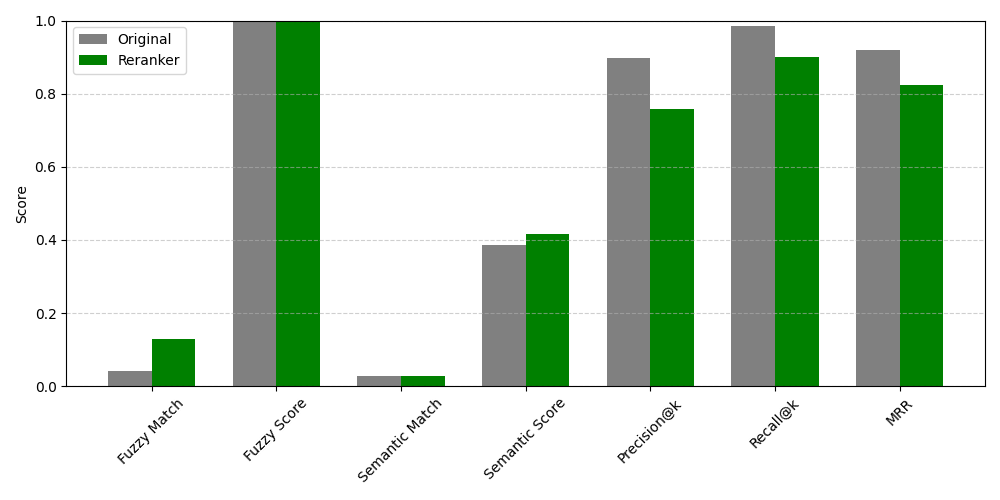
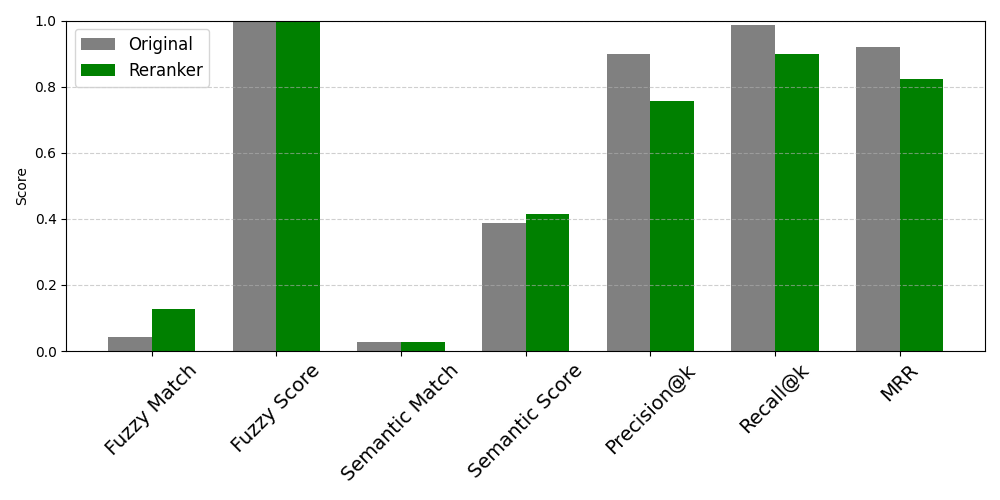
Update plots fonts size

diff --git a/evaluations/plot_model_comparison.py b/evaluations/plot_model_comparison.py
@@ -3,7 +3,7 @@ import matplotlib.pyplot as plt
 import os
 
 # Path to evaluation files
-eval_dir = "evaluations//direct-questions-evaluation"
+eval_dir = "evaluations//indirect-questions-evaluation"
 eval_files = [f for f in os.listdir(eval_dir) if f.startswith("Evaluation_") and f.endswith(".xlsx")]
 
 # Define metrics as (base_col, rerank_col)
@@ -25,7 +25,7 @@ rerank_metrics = {label: [] for label in metric_labels}
 
 # Read and process each file
 for file in eval_files:
-    model_name = file.replace("Evaluation_", "").replace(".xlsx", "").replace("_direct_questions", "")
+    model_name = file.replace("Evaluation_", "").replace(".xlsx", "").replace("_indirect_questions", "")
     model_names.append(model_name)
 
     file_path = os.path.join(eval_dir, file)
@@ -56,12 +56,12 @@ def plot_model_comparison(metric_dict, title, filename):
             color=color_palette[idx % len(color_palette)]
         )
 
-    plt.xticks([i + bar_width * 3 for i in x], model_names)
+    plt.xticks([i + bar_width * 3 for i in x], model_names, fontsize=16)
     plt.xlabel("Embedding Models")
     plt.ylabel("Score")
     #plt.title(title)
     plt.ylim(0, 1)
-    plt.legend()
+    plt.legend(fontsize=11)
     plt.tight_layout()
     plt.grid(axis='y', linestyle='--', alpha=0.5)
 
@@ -71,5 +71,5 @@ def plot_model_comparison(metric_dict, title, filename):
     print(f"✅ Saved plot: {output_path}")
 
 # Generate both comparison plots
-plot_model_comparison(base_metrics, "Model Performance Comparison (Without Reranker)", "plot_model_comparison_without_reranker_direct_questions.png")
-plot_model_comparison(rerank_metrics, "Model Performance Comparison (With Reranker)", "plot_model_comparison_with_reranker_direct_questions.png")
+plot_model_comparison(base_metrics, "Model Performance Comparison (Without Reranker)", "plot_model_comparison_without_reranker_indirect_questions.png")
+plot_model_comparison(rerank_metrics, "Model Performance Comparison (With Reranker)", "plot_model_comparison_with_reranker_indirect_questions.png")

diff --git a/evaluations/plot_metrics_comparison.py b/evaluations/plot_metrics_comparison.py
@@ -4,7 +4,7 @@ import os
 
 
 # Path to evaluation files
-eval_dir = "evaluations//indirect-questions-evaluation"
+eval_dir = "evaluations//direct-questions-evaluation"
 eval_files = [f for f in os.listdir(eval_dir) if f.startswith("Evaluation_") and f.endswith(".xlsx")]
 
 # Define metrics
@@ -44,15 +44,15 @@ for file in eval_files:
         plt.bar([i - width / 2 for i in x], values_base, width=width, label="Original", color="gray")
         plt.bar([i + width / 2 for i in x], values_rerank, width=width, label="Reranker", color="green")
 
-        plt.xticks(x, labels, rotation=45)
+        plt.xticks(x, labels, rotation=45, fontsize=14)
         plt.ylabel("Score")
         #plt.title(f"Performance Comparison for {model_name}")
         plt.ylim(0, 1)
-        plt.legend()
+        plt.legend(fontsize=12)
         plt.grid(axis='y', linestyle='--', alpha=0.6)
         plt.tight_layout()
 
-        output_path = os.path.join(eval_dir, f"plot_{model_name}_indirect_questions.png")
+        output_path = os.path.join(eval_dir, f"plot_{model_name}.png")
         plt.savefig(output_path)
         plt.close()
 
